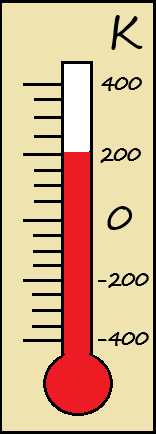
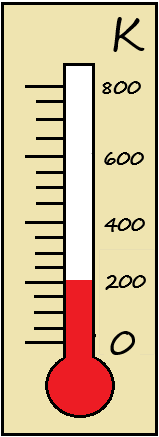
fix: remove negative values from temperature range + small details fix

diff --git a/temperature_effect.html b/temperature_effect.html
@@ -89,20 +89,20 @@
                 <!-- Thermometer Images -->
                 <div id="thermometer5KContainer">
                     <div class="content">
+                        <p>T = 5K</p>
                         <img id="thermometer5K" src="obrazky/thermometer_5K.png" height="400">
-                        <p>t = 5K</p>
                     </div>
                 </div>
                 <div id="thermometer200KContainer">
                     <div class="content">
+                        <p>T = 200K</p>
                         <img id="thermometer200K" src="obrazky/thermometer_200K.png" height="400">
-                        <p>t = 200K</p>
                     </div>
                 </div>
                 <div id="thermometer300KContainer">
                     <div class="content">
+                        <p>T = 300K</p>
                         <img id="thermometer300K" src="obrazky/thermometer_300K.png" height="400">
-                        <p>t = 300K</p>
                     </div>
                 </div>
             </div>

diff --git a/style.css b/style.css
@@ -344,6 +344,9 @@ span {
     .content img {
         display: none;
     }
+    .content p {
+        text-align: center !important;
+    }
 }
 
 .content p {
@@ -356,6 +359,13 @@ span {
 #thermometer300KContainer {
     display: none;
 }
+
+#thermometer200KContainer,
+#thermometer300KContaine,
+#thermometer5KContainer {
+    justify-content: center;
+}
+
 
 .animate-buttons {
     margin-top: 100px;
